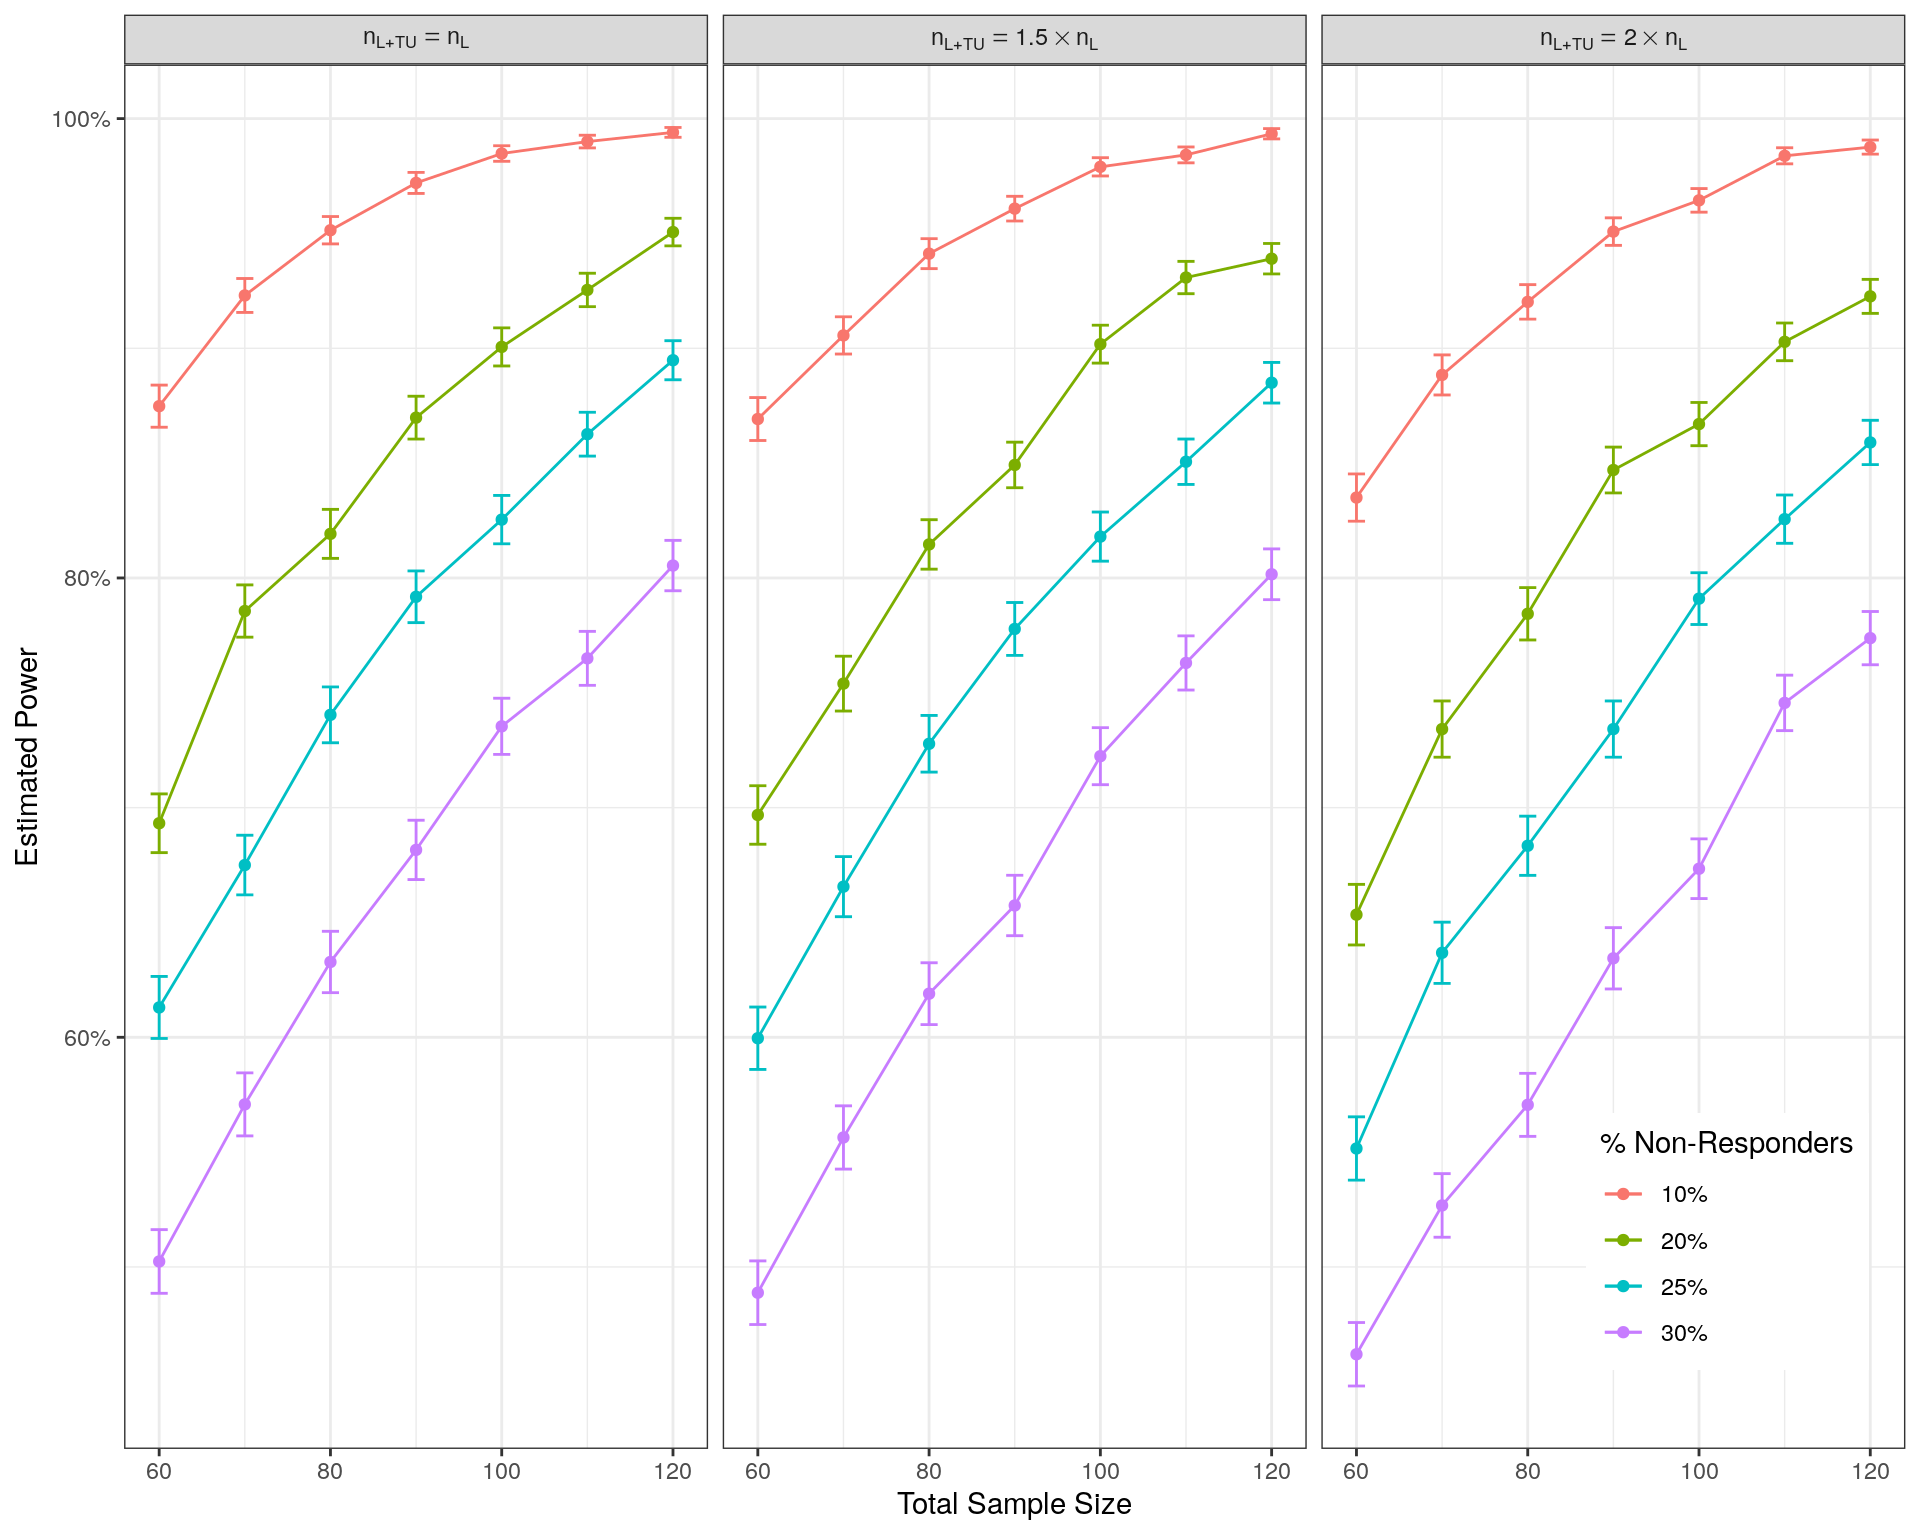
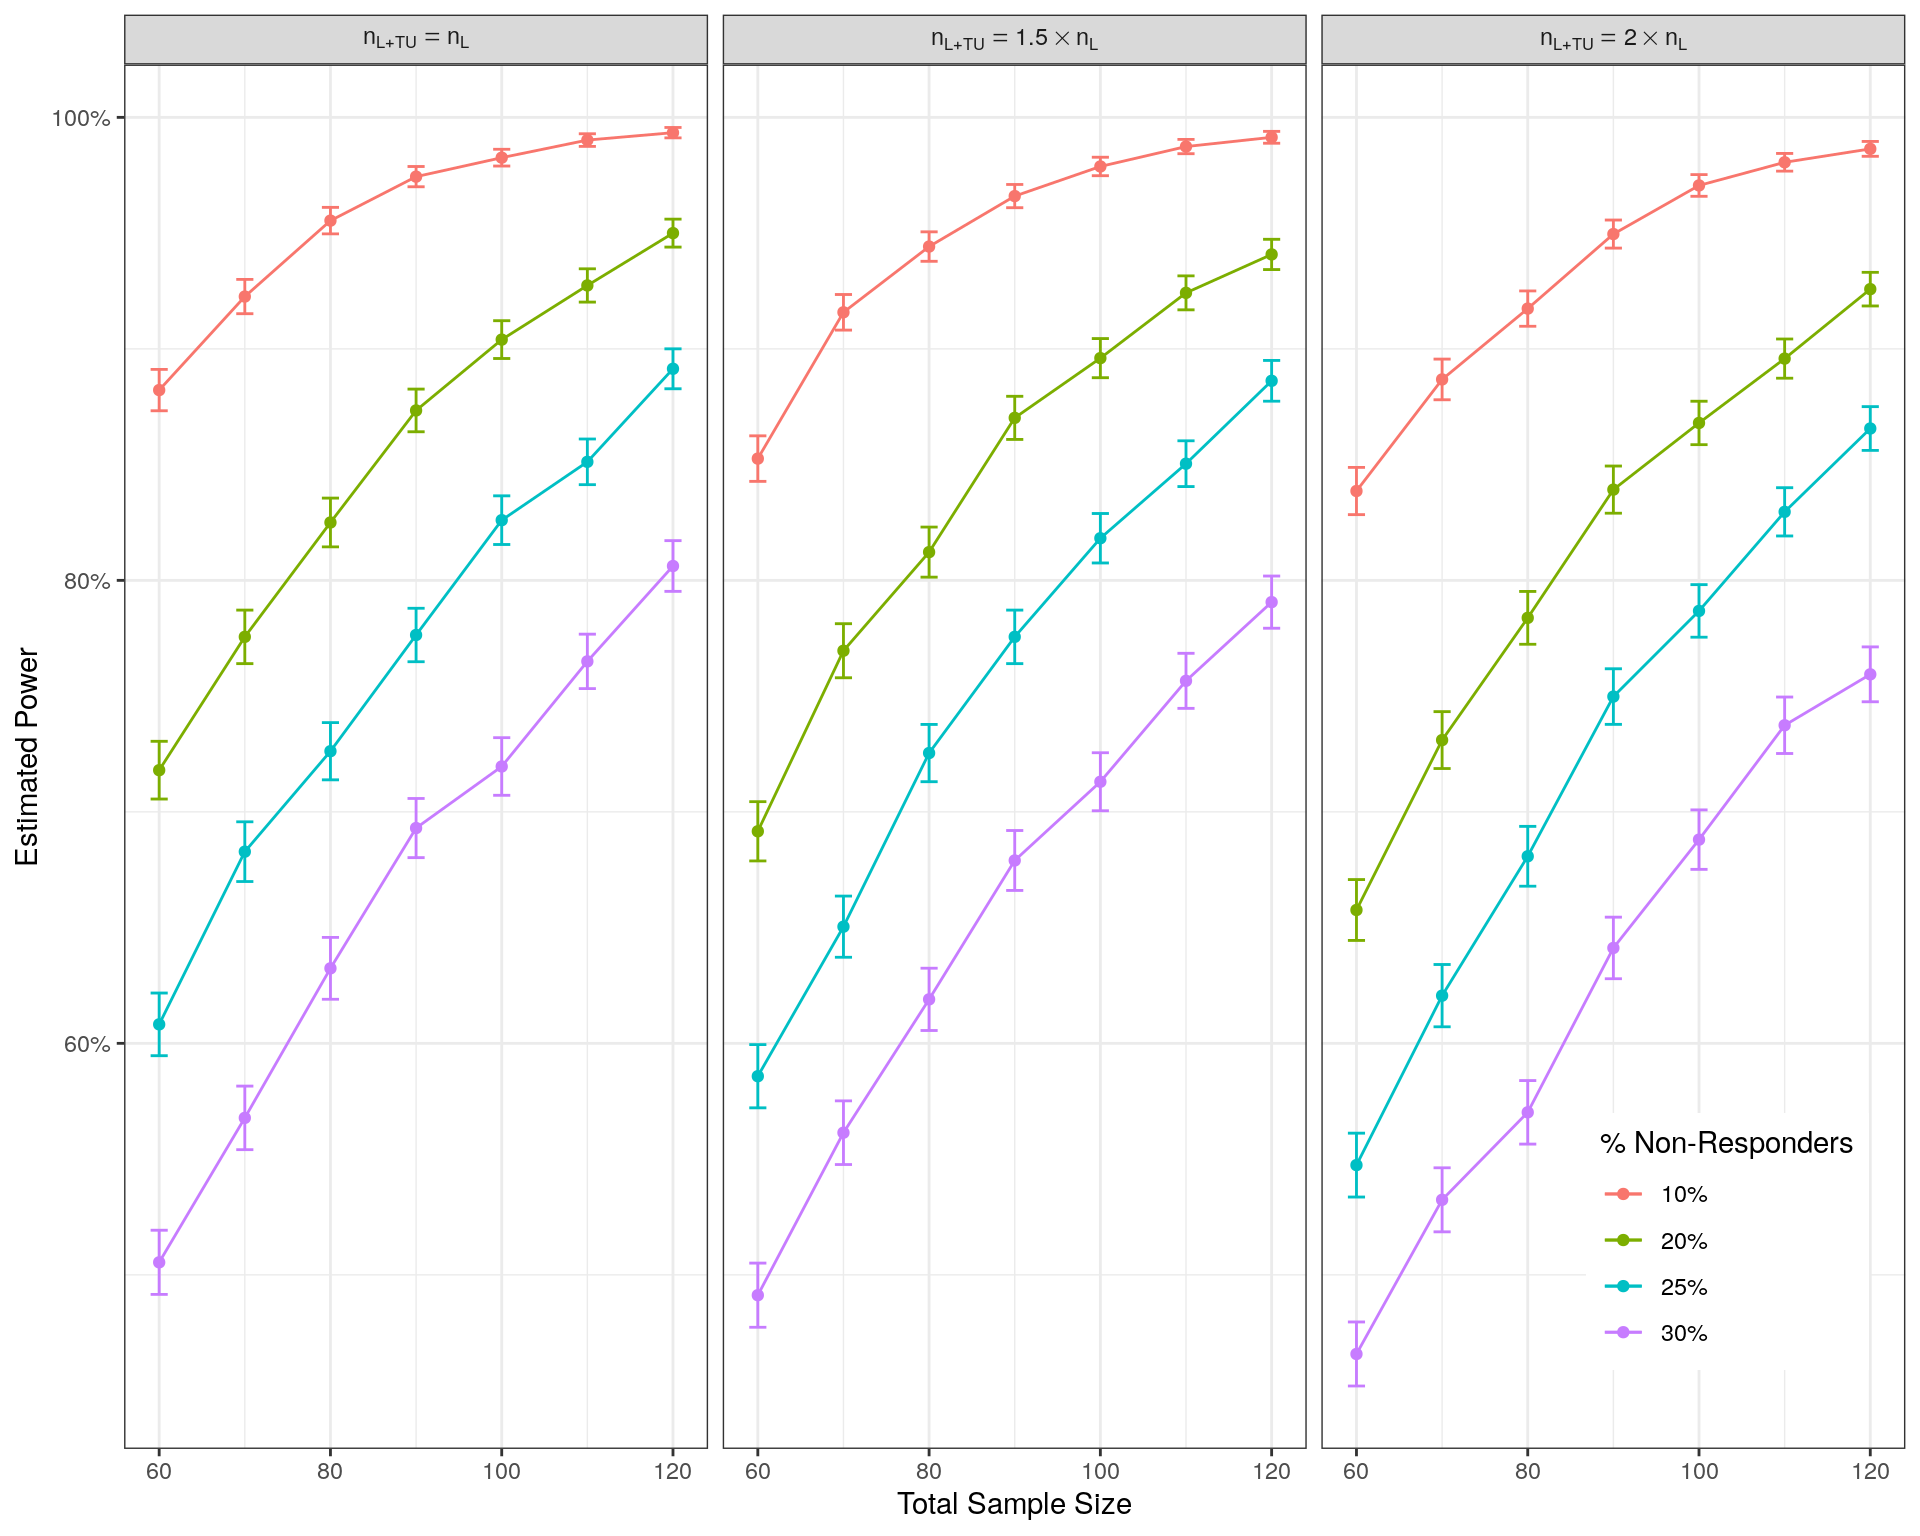
Build site.

diff --git a/docs/20210616_TULip_Ki67.html b/docs/20210616_TULip_Ki67.html
@@ -517,16 +517,16 @@ This reproducible <a href="http://rmarkdown.rstudio.com">R Markdown</a> analysis
 <div class="panel panel-default">
 <div class="panel-heading">
 <p class="panel-title">
-<a data-toggle="collapse" data-parent="#workflowr-checks" href="#strongRepositoryversionstrongahrefhttpsgithubcomDRMCRLpowercalculationstree0f1fe7fbb6962393ad46cff53998d45d7e3277d7targetblank0f1fe7fa"> <span class="glyphicon glyphicon-ok text-success" aria-hidden="true"></span> <strong>Repository version:</strong> <a href="https://github.com/DRMCRL/power_calculations/tree/0f1fe7fbb6962393ad46cff53998d45d7e3277d7" target="_blank">0f1fe7f</a> </a>
+<a data-toggle="collapse" data-parent="#workflowr-checks" href="#strongRepositoryversionstrongahrefhttpsgithubcomDRMCRLpowercalculationstree5d7db7a5a629ab5789fc52b57a850ed5bdbe3fe2targetblank5d7db7aa"> <span class="glyphicon glyphicon-ok text-success" aria-hidden="true"></span> <strong>Repository version:</strong> <a href="https://github.com/DRMCRL/power_calculations/tree/5d7db7a5a629ab5789fc52b57a850ed5bdbe3fe2" target="_blank">5d7db7a</a> </a>
 </p>
 </div>
[2 lines of base64/hex data omitted]
 <div class="panel-body">
 <p>
 Great! You are using Git for version control. Tracking code development and connecting the code version to the results is critical for reproducibility.
 </p>
 <p>
-The results in this page were generated with repository version <a href="https://github.com/DRMCRL/power_calculations/tree/0f1fe7fbb6962393ad46cff53998d45d7e3277d7" target="_blank">0f1fe7f</a>. See the <em>Past versions</em> tab to see a history of the changes made to the R Markdown and HTML files.
+The results in this page were generated with repository version <a href="https://github.com/DRMCRL/power_calculations/tree/5d7db7a5a629ab5789fc52b57a850ed5bdbe3fe2" target="_blank">5d7db7a</a>. See the <em>Past versions</em> tab to see a history of the changes made to the R Markdown and HTML files.
 </p>
 <p>
 Note that you need to be careful to ensure that all relevant files for the analysis have been committed to Git prior to generating the results (you can use <code>wflow_publish</code> or <code>wflow_git_commit</code>). workflowr only checks the R Markdown file, but you know if there are other scripts or data files that it depends on. Below is the status of the Git repository when the results were generated:
@@ -576,6 +576,40 @@ Message
 </tr>
 </thead>
 <tbody>
+<tr>
+<td>
+Rmd
+</td>
+<td>
+<a href="https://github.com/DRMCRL/power_calculations/blob/5d7db7a5a629ab5789fc52b57a850ed5bdbe3fe2/analysis/20210616_TULip_Ki67.Rmd" target="_blank">5d7db7a</a>
+</td>
+<td>
+Steve Ped
+</td>
+<td>
+2021-06-17
+</td>
+<td>
+Finished again
+</td>
+</tr>
+<tr>
+<td>
+html
+</td>
+<td>
+<a href="https://rawcdn.githack.com/DRMCRL/power_calculations/a72d492490dd3175a4dd2b59facee0248c5096f5/docs/20210616_TULip_Ki67.html" target="_blank">a72d492</a>
+</td>
+<td>
+Steve Ped
+</td>
+<td>
+2021-06-17
+</td>
+<td>
+Build site.
+</td>
+</tr>
 <tr>
 <td>
 Rmd
@@ -1086,6 +1120,17 @@ Date
 <tbody>
 <tr>
 <td>
+<a href="https://github.com/DRMCRL/power_calculations/blob/a72d492490dd3175a4dd2b59facee0248c5096f5/docs/figure/20210616_TULip_Ki67.Rmd/example_boxplot-1.png" target="_blank">a72d492</a>
+</td>
+<td>
+Steve Ped
+</td>
+<td>
+2021-06-17
+</td>
+</tr>
+<tr>
+<td>
 <a href="https://github.com/DRMCRL/power_calculations/blob/9c74750c83f5b1950b68faef2843eba50573b1c1/docs/figure/20210616_TULip_Ki67.Rmd/example_boxplot-1.png" target="_blank">9c74750</a>
 </td>
 <td>
@@ -1293,6 +1338,17 @@ Date
 <tbody>
 <tr>
 <td>
+<a href="https://github.com/DRMCRL/power_calculations/blob/a72d492490dd3175a4dd2b59facee0248c5096f5/docs/figure/20210616_TULip_Ki67.Rmd/plot_curves-1.png" target="_blank">a72d492</a>
+</td>
+<td>
+Steve Ped
+</td>
+<td>
+2021-06-17
+</td>
+</tr>
+<tr>
+<td>
 <a href="https://github.com/DRMCRL/power_calculations/blob/9c74750c83f5b1950b68faef2843eba50573b1c1/docs/figure/20210616_TULip_Ki67.Rmd/plot_curves-1.png" target="_blank">9c74750</a>
 </td>
 <td>
@@ -1464,7 +1520,7 @@ Steve Ped
 <td align="right">3.3%</td>
 <td align="right">1.2%</td>
 <td align="right">78.8%</td>
-<td align="right">92.1%</td>
+<td align="right">92.2%</td>
 <td align="right">-16.9%</td>
 </tr>
 <tr class="even">
@@ -1500,13 +1556,13 @@ Steve Ped
 </div>
 <div id="conclusion" class="section level2">
 <h2>Conclusion</h2>
-<p>Using 30% non-responders from the above power curves:</p>
+<p>Using 25% non-responders from the above power curves, and a significance threshold of α = 0.05:</p>
 <ul>
-<li><em>Keeping group sizes equal</em> requires N = 100 (n<sub>Let</sub> = 60; n<sub>L+TU</sub> = 60) to achieve a 90% power (in the presence of 30% non-responders)</li>
-<li><em>Including an additional 50% of participants in the combined treatment group</em> is able to achieve a power &gt; 90% at N = 100 (n<sub>Let</sub> = 40; n<sub>L+TU</sub> = 60)</li>
-<li><em>Including double the number of participants in the combined treatment group</em> is able to achieve a power of 90% at N &gt; 100 (n<sub>Let</sub> = 35; n<sub>L+TU</sub> = 70)</li>
+<li><em>Keeping group sizes equal</em> requires N = 100 (n<sub>Let</sub> = 60; n<sub>L+TU</sub> = 60) to achieve a 80% power (in the presence of ⋜25% non-responders)</li>
+<li><em>Including an additional 50% of participants in the combined treatment group</em> is able to achieve a power ⋝80% at N = 100 (n<sub>Let</sub> = 40; n<sub>L+TU</sub> = 60)</li>
+<li><em>Including double the number of participants in the combined treatment group</em> is able to achieve a power ≈ 80% at N &gt; 100 (n<sub>Let</sub> = 34; n<sub>L+TU</sub> = 68)</li>
 </ul>
-<p>Importantly a <em>sample size of 100 participants</em> exceeds a power of 80% for all combinations of n<sub>L+TU</sub> and n<sub>L</sub> and all non-response rates. All simulations included a dropout rate of 5%</p>
+<p>Importantly a <em>sample size of 110 participants</em> achieves a power &gt; 80% for all combinations of n<sub>L+TU</sub> and n<sub>L</sub> and all non-responder rates ⋜25%. For 30% non-responders, the power is still within acceptable bounds at ≈75% for N = 110. All simulations included a dropout rate of 5%</p>
 <br>
 <p>
 <button type="button" class="btn btn-default btn-workflowr btn-workflowr-sessioninfo" data-toggle="collapse" data-target="#workflowr-sessioninfo" style="display: block;">
